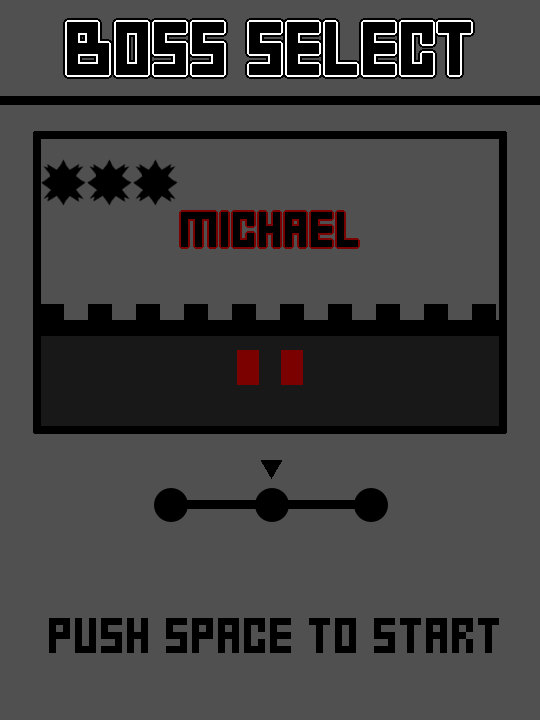
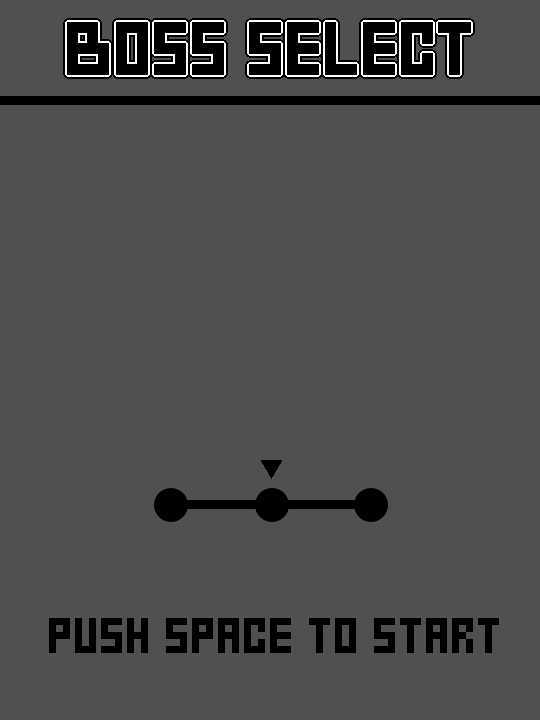
ボスセレクト一時終了

Changed region(s): [[0.0593, 0.1833, 0.9481, 0.6111], [0.3259, 0.275, 0.6815, 0.3667]]

diff --git a/Game/StageSerect.cpp b/Game/StageSerect.cpp
@@ -1,4 +1,5 @@
 #include "GlobalVariables.h"
+#include "TitleScene.h"
 #include "StageSerect.h"
 #include "ImGame.h"
 #include "InGame2.h"
@@ -9,38 +10,84 @@ void StageSerect::OnInitialize() {
 
 #pragma region スプライト初期化
 
+	SpriteInitialize(glayTex_, "whiteBackGround", { 540.0f, 720.0f });
+	glayTex_.SetPosition({ kCenter_.x, kCenter_.y });
+	glayTex_.SetDrawOrder(uint8_t(1));
+
 	SpriteInitialize(bobTex_, "selectBob", { 540.0f, 720.0f });
-	bobTex_.SetPosition({ kCenter_.x, kCenter_.y });
-	bobTex_.SetIsActive(false);
 	SpriteInitialize(michaelTex_, "selectMichael", { 540.0f, 720.0f });
-	michaelTex_.SetPosition({ kCenter_.x, kCenter_.y });
-	michaelTex_.SetIsActive(false);
 	SpriteInitialize(maxTex_, "selectMax", { 540.0f, 720.0f });
+	bobTex_.SetPosition({ kCenter_.x, kCenter_.y });
+	michaelTex_.SetPosition({ kCenter_.x, kCenter_.y });
 	maxTex_.SetPosition({ kCenter_.x, kCenter_.y });
+	bobTex_.SetIsActive(false);
+	michaelTex_.SetIsActive(false);
 	maxTex_.SetIsActive(false);
+
+	SpriteInitialize(bobPosterTex_, "bobPoster", { 474.0f, 303.0f });
+	SpriteInitialize(michaelPosterTex_, "michaelPoster", { 474.0f, 303.0f });
+	SpriteInitialize(maxPosterTex_, "maxPoster", { 474.0f, 303.0f });
+	bobPosterTex_.SetPosition({ kCenter_.x, kCenter_.y + 75.0f });
+	michaelPosterTex_.SetPosition({ kCenter_.x, kCenter_.y + 75.0f });
+	maxPosterTex_.SetPosition({ kCenter_.x, kCenter_.y + 75.0f });
+	bobPosterTex_.SetIsActive(false);
+	michaelPosterTex_.SetIsActive(false);
+	maxPosterTex_.SetIsActive(false);
+
 
 #pragma endregion
 }
 
 void StageSerect::OnUpdate() {
 
-	//選んでる状態ごとの更新
+	auto easeOutCirc = [](float t) { return std::sqrtf(1 - std::powf(t - 1, 2)); };
+	float tmpColor = 80.0f / 255.0f;
+	if (!isPushSpace_) {
+		EasingClamp(glayFadeOutEasingT_, 0.02f);
+		glayTex_.SetColor({ tmpColor, tmpColor, tmpColor, Math::Lerp(easeOutCirc(glayFadeOutEasingT_), 1.0f, 0.0f) });
+		if (glayFadeOutEasingT_ == 1.0f && input_->IsKeyTrigger(DIK_SPACE) && state_ != kStage3) {
+			glayFadeOutEasingT_ = 0.0f;
+			isPushSpace_ = true;
+		}
+	}
+	else {
+		EasingClamp(glayFadeOutEasingT_, 0.02f);
+		glayTex_.SetColor({ tmpColor, tmpColor, tmpColor, Math::Lerp(easeOutCirc(glayFadeOutEasingT_), 0.0f, 1.0f) });
+	}
+
+	EasingClamp(posterScaleEasingT_, 0.07f);
+	float scaleMag = 1.2f;
+	// 選んでる状態ごとの更新
 	switch (state_) {
 	case StageSerect::kStage1:
 		State1Update();
-		michaelTex_.SetIsActive(false);
 		bobTex_.SetIsActive(true);
+		bobPosterTex_.SetIsActive(true);
+		bobPosterTex_.SetScale(Vector2::Lerp(easeOutCirc(posterScaleEasingT_), { 474.0f * scaleMag, 303.0f * scaleMag }, { 474.0f, 303.0f }));
+
+		michaelTex_.SetIsActive(false);
+		michaelPosterTex_.SetIsActive(false);
 		break;
 	case StageSerect::kStage2:
 		State2Update();
 		bobTex_.SetIsActive(false);
+		bobPosterTex_.SetIsActive(false);
+
 		michaelTex_.SetIsActive(true);
+		michaelPosterTex_.SetIsActive(true);
+		michaelPosterTex_.SetScale(Vector2::Lerp(easeOutCirc(posterScaleEasingT_), { 474.0f * scaleMag, 303.0f * scaleMag }, { 474.0f, 303.0f }));
+
 		maxTex_.SetIsActive(false);
+		maxPosterTex_.SetIsActive(false);
 		break;
 	case StageSerect::kStage3:
 		State3Update();
 		michaelTex_.SetIsActive(false);
+		michaelPosterTex_.SetIsActive(false);
+
 		maxTex_.SetIsActive(true);
+		maxPosterTex_.SetIsActive(true);
+		maxPosterTex_.SetScale(Vector2::Lerp(easeOutCirc(posterScaleEasingT_), { 474.0f * scaleMag, 303.0f * scaleMag }, { 474.0f, 303.0f }));
 		break;
 	}
 
@@ -51,45 +98,54 @@ void StageSerect::OnFinalize() {
 }
 
 void StageSerect::State1Update() {
-	//右
+	// 右
 	if (input_->IsKeyTrigger(DIK_RIGHT) || input_->IsKeyTrigger(DIK_D)) {
+		posterScaleEasingT_ = 0.0f;
 		state_ = kStage2;
 	}
 }
 
 void StageSerect::State2Update() {
-	//右
+	// 右
 	if (input_->IsKeyTrigger(DIK_RIGHT) || input_->IsKeyTrigger(DIK_D)) {
+		posterScaleEasingT_ = 0.0f;
 		state_ = kStage3;
 	}
-	//左
+	// 左
 	else if (input_->IsKeyTrigger(DIK_LEFT) || input_->IsKeyTrigger(DIK_A)) {
+		posterScaleEasingT_ = 0.0f;
 		state_ = kStage1;
 	}
 }
 
 void StageSerect::State3Update() {
-	//左
+	// 左
 	if (input_->IsKeyTrigger(DIK_LEFT) || input_->IsKeyTrigger(DIK_A)) {
+		posterScaleEasingT_ = 0.0f;
 		state_ = kStage2;
 	}
 }
 
 void StageSerect::ChangeScene() {
-	//スペースキーでゲーム
-	if (input_->IsKeyTrigger(DIK_SPACE)) {
-		//インスタンス取得
+	// ESCキーでタイトル
+	if (input_->IsKeyTrigger(DIK_ESCAPE)) {
+		SceneManager* sceneManager = SceneManager::GetInstance();
+		sceneManager->ChangeScene<TitleScene>();
+	}
+	// スペースキーでゲーム
+	if (glayFadeOutEasingT_ == 1.0f && isPushSpace_) {
+		// インスタンス取得
 		SceneManager* sceneManager = SceneManager::GetInstance();
 
-		//選択しているステージに移動
+		// 選択しているステージに移動
 		switch (state_) {
 		case StageSerect::kStage1:
-			//シーン設定
+			// シーン設定
 			sceneManager->ChangeScene<InGame>();
 			break;
 
 		case StageSerect::kStage2:
-			//シーン設定
+			// シーン設定
 			sceneManager->ChangeScene<InGame2>();
 			break;
 		}

diff --git a/Game/StageSerect.h b/Game/StageSerect.h
@@ -57,11 +57,20 @@ private://メンバ変数
 	// 中心座標
 	const Vector2 kCenter_ = { 270.0f, 360.0f };
 
+	bool isPushSpace_ = false;
+
 #pragma region スプライト
 
+	Sprite glayTex_;
+	float glayFadeOutEasingT_ = 0.0f;
 	Sprite bobTex_;
 	Sprite michaelTex_;
 	Sprite maxTex_;
+
+	Sprite bobPosterTex_;
+	Sprite michaelPosterTex_;
+	Sprite maxPosterTex_;
+	float posterScaleEasingT_ = 0.0f;
 
 #pragma endregion
 
